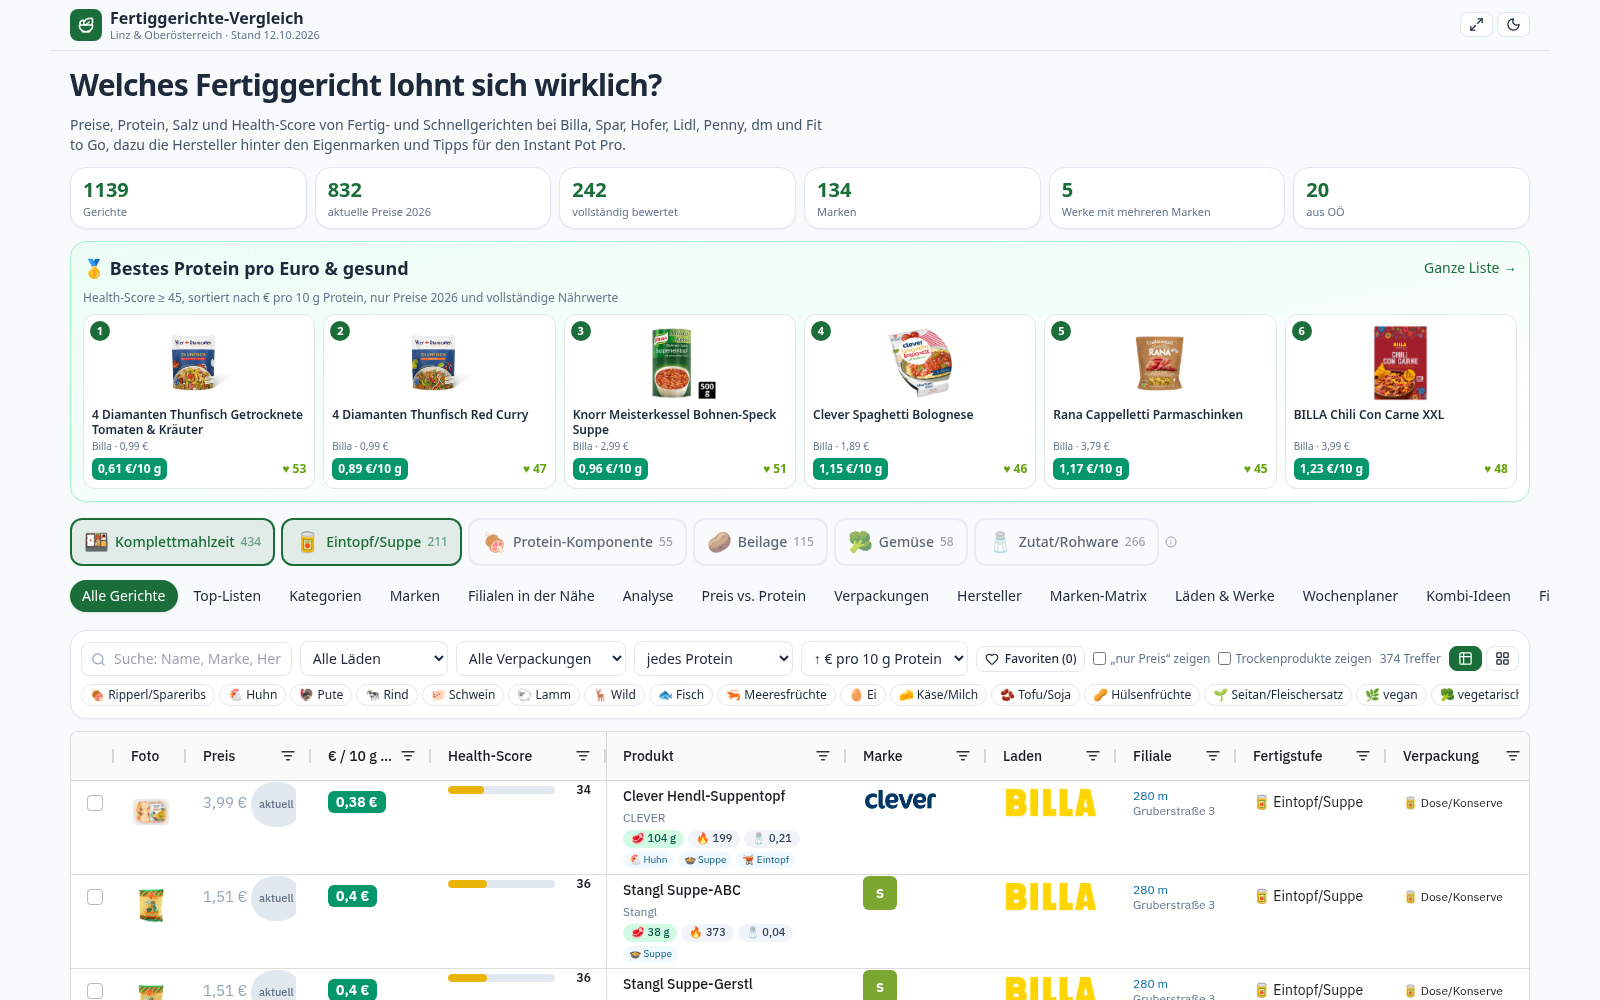
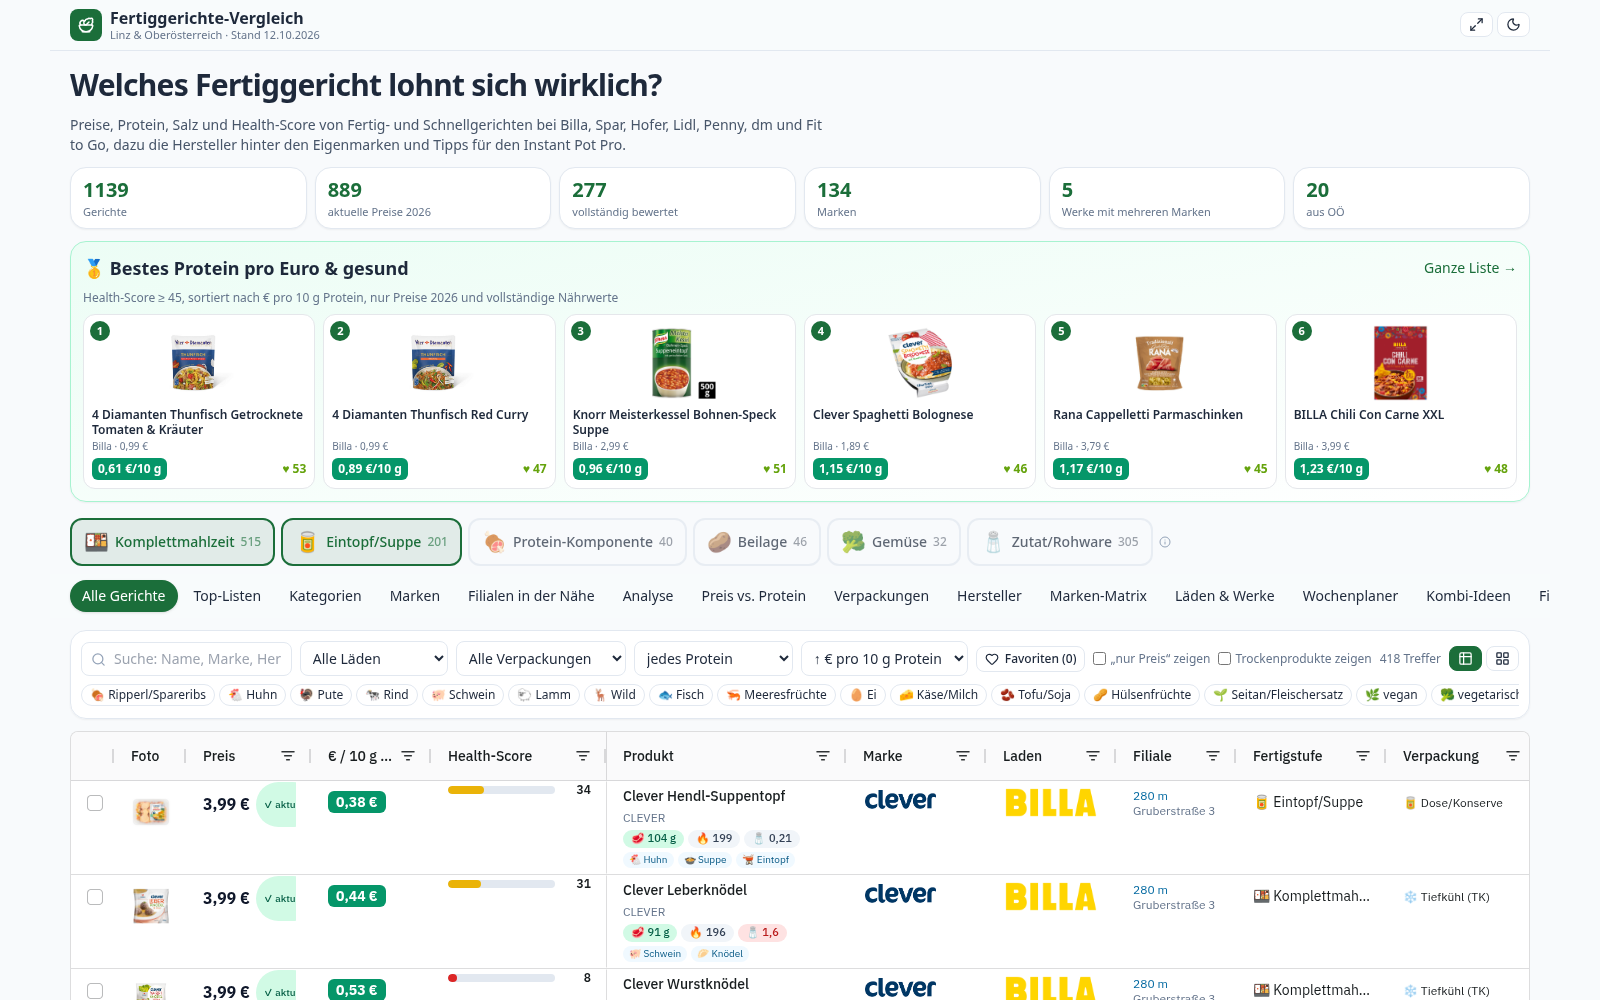
v3.2.1: Preis-Spalte breiter

diff --git a/src/views/Grid.tsx b/src/views/Grid.tsx
@@ -21,7 +21,7 @@ export default function Grid({rows,sort='eur10p'}:{rows:Row[];sort?:string}){
     {headerName:'Filiale',colId:'dist',headerTooltip:'ℹ '+KPI.dist,width:120,filter:'agNumberColumnFilter',valueGetter:(p:any)=>{const s=nearest(p.data.store);return s?(s.walk_m??s.dist):null},cellRenderer:(p:any)=>{const s=nearest(p.data.store);return s?<a href={s.gmaps} target="_blank" rel="noreferrer" className="text-xs text-sky-700 hover:underline leading-tight block py-1.5" title={s.addr??''}>{p.value<1000?Math.round(p.value/10)*10+' m':(p.value/1000).toFixed(1)+' km'}<br/><span className="text-slate-500">{(s.addr??'').split(',')[0]}</span></a>:'–'}},
     {headerName:'Fertigstufe',field:'stage',width:150,headerTooltip:'ℹ '+KPI.stage,valueFormatter:(p:any)=>{const x=STAGES.find(s=>s[0]===p.value);return x?x[1]+' '+x[2]:''}},
     {headerName:'Verpackung',field:'pack',width:150,headerTooltip:'ℹ '+KPI.pack,valueFormatter:(p:any)=>packEmo(p.value)+' '+p.value,filter:'agTextColumnFilter',wrapText:true,cellClass:'text-xs leading-tight'},
-    {headerName:'Preis',field:'price',width:125,pinned:'left',filter:'agNumberColumnFilter',cellRenderer:(p:any)=><div className="text-[15px]"><Price r={p.data}/></div>},
+    {headerName:'Preis',field:'price',width:165,pinned:'left',filter:'agNumberColumnFilter',cellRenderer:(p:any)=><div className="text-[15px]"><Price r={p.data}/></div>},
     {headerName:'€ / 10 g Protein',field:'eur10p',width:120,headerTooltip:'ℹ '+KPI.eur10p,pinned:'left',filter:'agNumberColumnFilter',cellRenderer:(p:any)=>p.value==null?<span className="text-slate-400">–</span>:<span className="rounded-md bg-emerald-600 px-2 py-0.5 font-bold text-white tabular-nums">{fmt(p.value,2)} €</span>},
     {headerName:'Health-Score',field:'score',width:175,headerTooltip:'ℹ '+KPI.score,pinned:'left',filter:'agNumberColumnFilter',cellRenderer:(p:any)=><div className="h-full flex items-center"><ScoreBar r={p.data}/></div>},
     {headerName:'PLI',field:'pli',width:90,filter:'agNumberColumnFilter',headerTooltip:'ℹ '+KPI.pli,cellRenderer:(p:any)=><PliBadge v={p.value}/>},

diff --git a/src/components/product.tsx b/src/components/product.tsx
@@ -45,7 +45,7 @@ export function Chips({r,compact}:{r:Row;compact?:boolean}){
   </div>
 }
 export const isLive=(p:string|null)=>!!p&&/live|aktuell/i.test(p)
-export const Price=({r}:{r:Row})=> r.price==null?<span className="text-slate-400">–</span>:<span className="inline-flex items-center gap-1.5"><span className={cn('font-bold tabular-nums text-[1.05em]',isLive(r.pstat)?'text-slate-900 dark:text-white':'text-slate-500')}>{fmt(r.price,2)} €</span>{isLive(r.pstat)?<Badge className="bg-emerald-100 text-emerald-800 dark:bg-emerald-900/50 dark:text-emerald-300 text-[10px]">✓ aktuell</Badge>:<Badge className="bg-amber-100 text-amber-800 text-[10px]">{r.pstat}</Badge>}</span>
+export const Price=({r}:{r:Row})=> r.price==null?<span className="text-slate-400">–</span>:<span className="inline-flex items-center gap-1.5 whitespace-nowrap"><span className={cn('font-bold tabular-nums text-[1.05em]',isLive(r.pstat)?'text-slate-900 dark:text-white':'text-slate-500')}>{fmt(r.price,2)} €</span>{isLive(r.pstat)?<Badge className="bg-emerald-100 text-emerald-800 dark:bg-emerald-900/50 dark:text-emerald-300 text-[10px]">✓ aktuell</Badge>:<Badge className="bg-amber-100 text-amber-800 text-[10px]">{r.pstat}</Badge>}</span>
 export function BrandLogo({r,size=28}:{r:Pick<Row,'brandN'|'logo'>;size?:number}){
   const [err,setErr]=useState(false)
   if(r.logo&&!err) return <span title={r.brandN} style={{height:size,width:size*2.2}} className="inline-flex"><ZoomImage src={r.logo} className="h-full w-full p-0.5" onErr={()=>setErr(true)}/></span>
